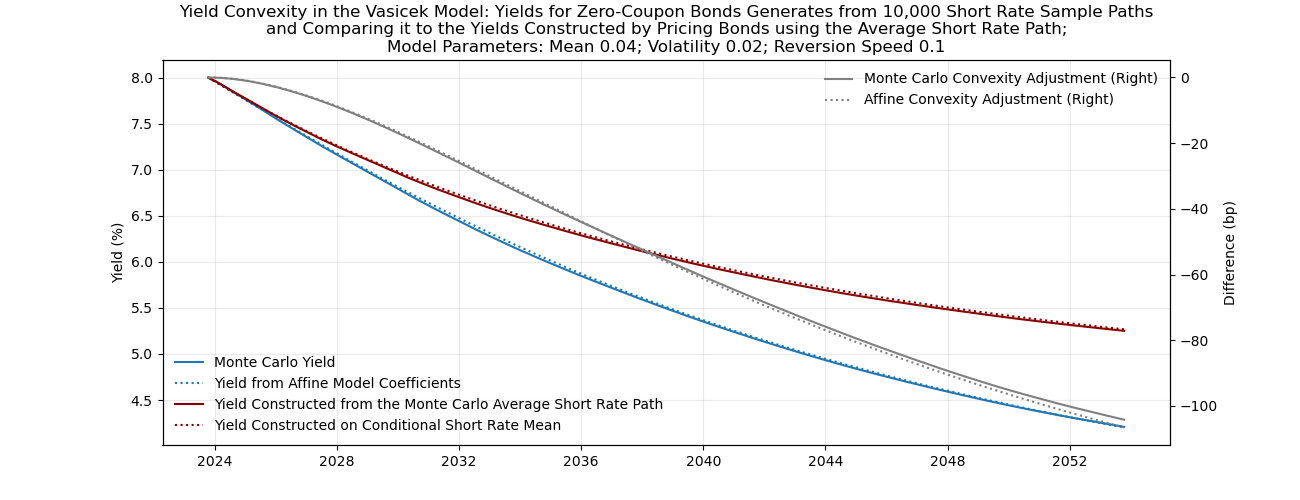
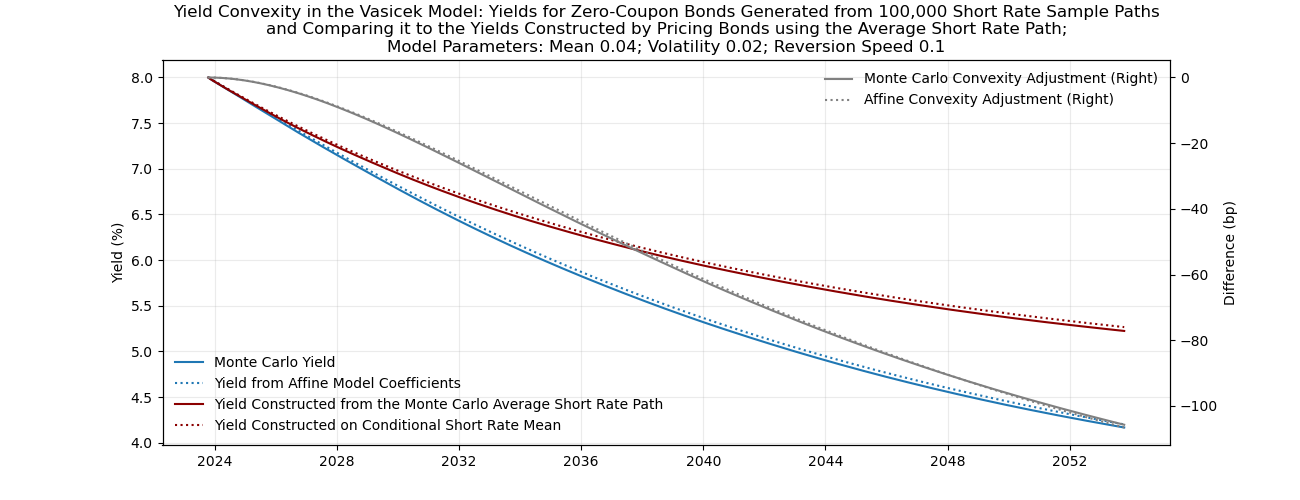
Fixed title in plot, ran 100,000 monte carlo paths.

diff --git a/fixedIncome/src/stochastics/short_rate_models/one_factor_models/vasicek_model.py b/fixedIncome/src/stochastics/short_rate_models/one_factor_models/vasicek_model.py
@@ -264,7 +264,7 @@ if __name__ == '__main__':
     #plt.show()
 
     # CONVEXITY
-    NUM_CURVES = 10_000
+    NUM_CURVES = 100_000
     INITIAL_SHORT_RATE = 0.08
     vm_avg_short_rate = np.zeros((1, len(admissible_dates)))
     vm_avg_df = np.zeros((1, len(admissible_dates)))
@@ -317,7 +317,7 @@ if __name__ == '__main__':
     plt.plot(admissible_dates[1:], yield_for_conditional_mean_short_rate, color='darkred', linestyle='dotted')
 
     plt.grid(alpha=0.25)
-    plt.title(f'Yield Convexity in the Vasicek Model: Yields for Zero-Coupon Bonds Generates from {"{:,}".format(NUM_CURVES)} Short Rate Sample Paths\n'
+    plt.title(f'Yield Convexity in the Vasicek Model: Yields for Zero-Coupon Bonds Generated from {"{:,}".format(NUM_CURVES)} Short Rate Sample Paths\n'
               f'and Comparing it to the Yields Constructed by Pricing Bonds using the Average Short Rate Path;'
               f'\nModel Parameters: Mean {vm.long_term_mean}; Volatility {vm.volatility}; Reversion Speed {vm.reversion_speed}')
     plt.ylabel('Yield (%)')
